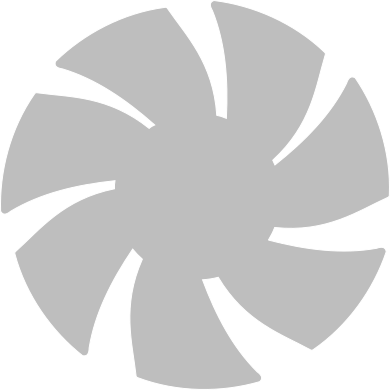
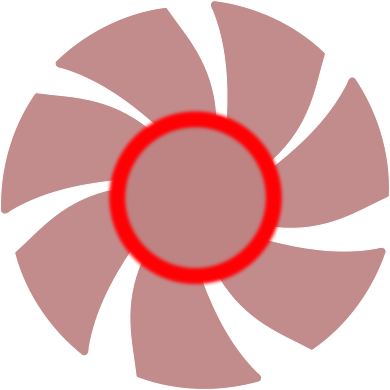
Improve fan rgb light

diff --git a/style.css b/style.css
@@ -54,7 +54,7 @@ body {
 
 .header-container {
   display: flex;
-  max-width: 1400px;
+  width: 70vw;
   margin: 0 auto;
 }
 
@@ -192,21 +192,14 @@ body {
 .fan_frame {
   position: absolute;
   transform: translateX(4px) translateY(6px);
-  animation: rotate_hue 15s infinite;
+  animation: rotate_hue 20s infinite;
 }
 
 .fan {
   position: relative;
   left: 60px;
   top: 60px;
-  animation: rotate_image 3s infinite linear;
-}
-
-.fan_light {
-  position: relative;
-  animation: rotate_hue 15s infinite;
-  bottom: 230px;
-  left: 164px;
+  animation: rotate_hue 20s infinite, rotate_image 3s infinite linear;
 }
 
 @media only screen and (max-width: 1420px) {

diff --git a/index.html b/index.html
@@ -76,7 +76,6 @@
       <div class="fan_animation">
         <img src="img/fan_frame.png" class="fan_frame"/>
         <img src="img/fan.png" class="fan"/>
-        <img src="img/fan_light.png" class="fan_light"/>
       </div>
     </div>
 
